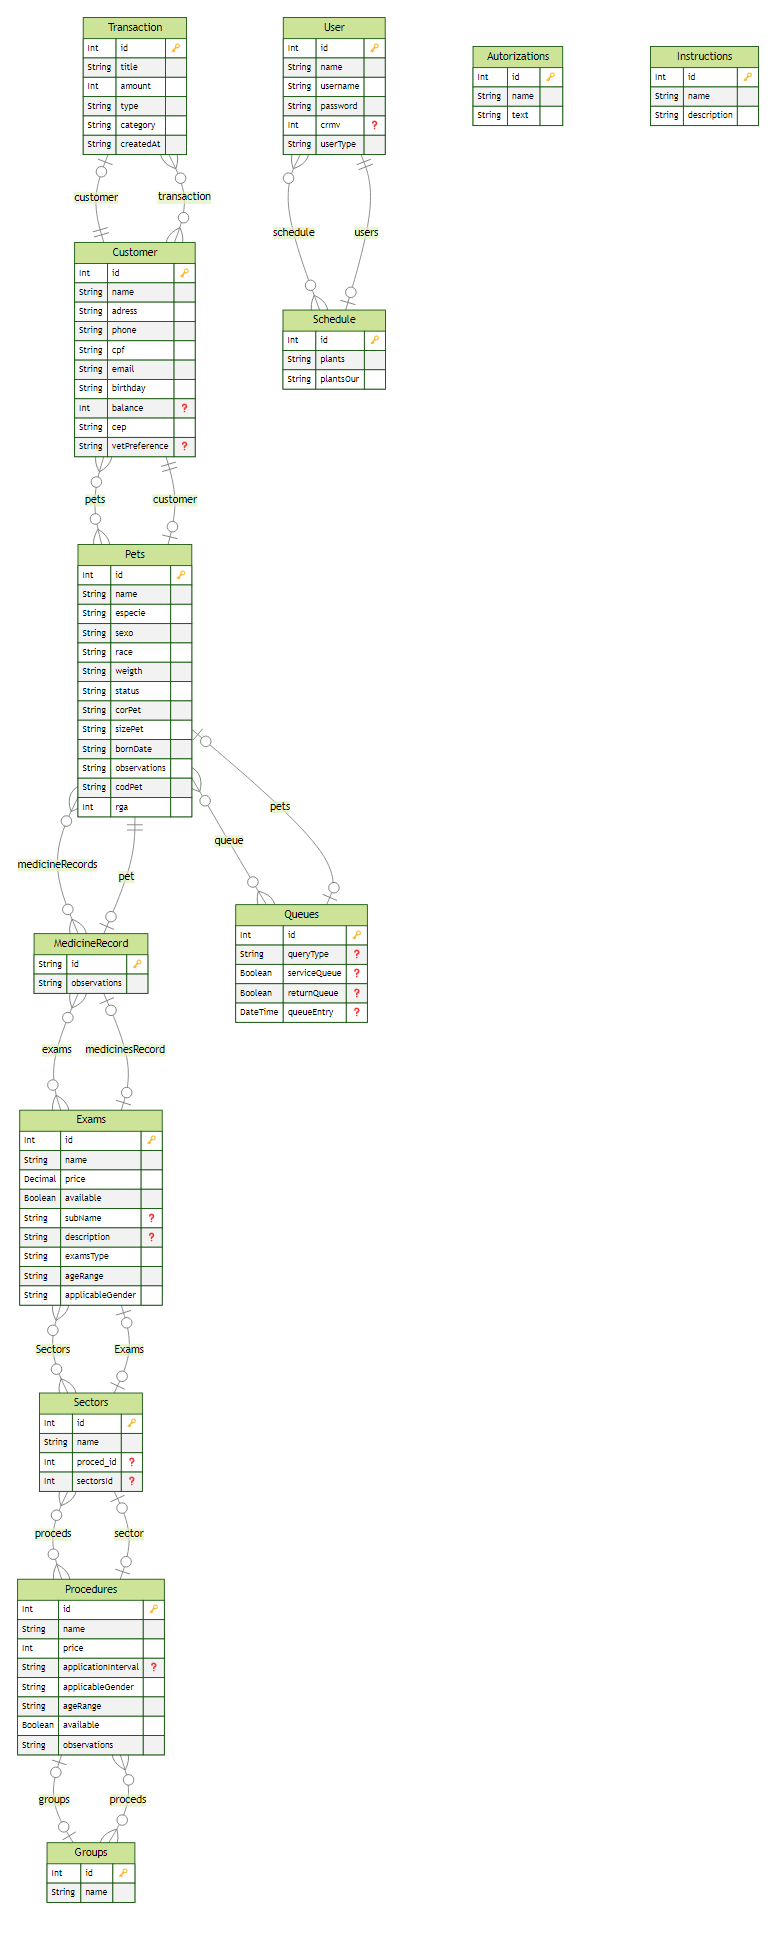
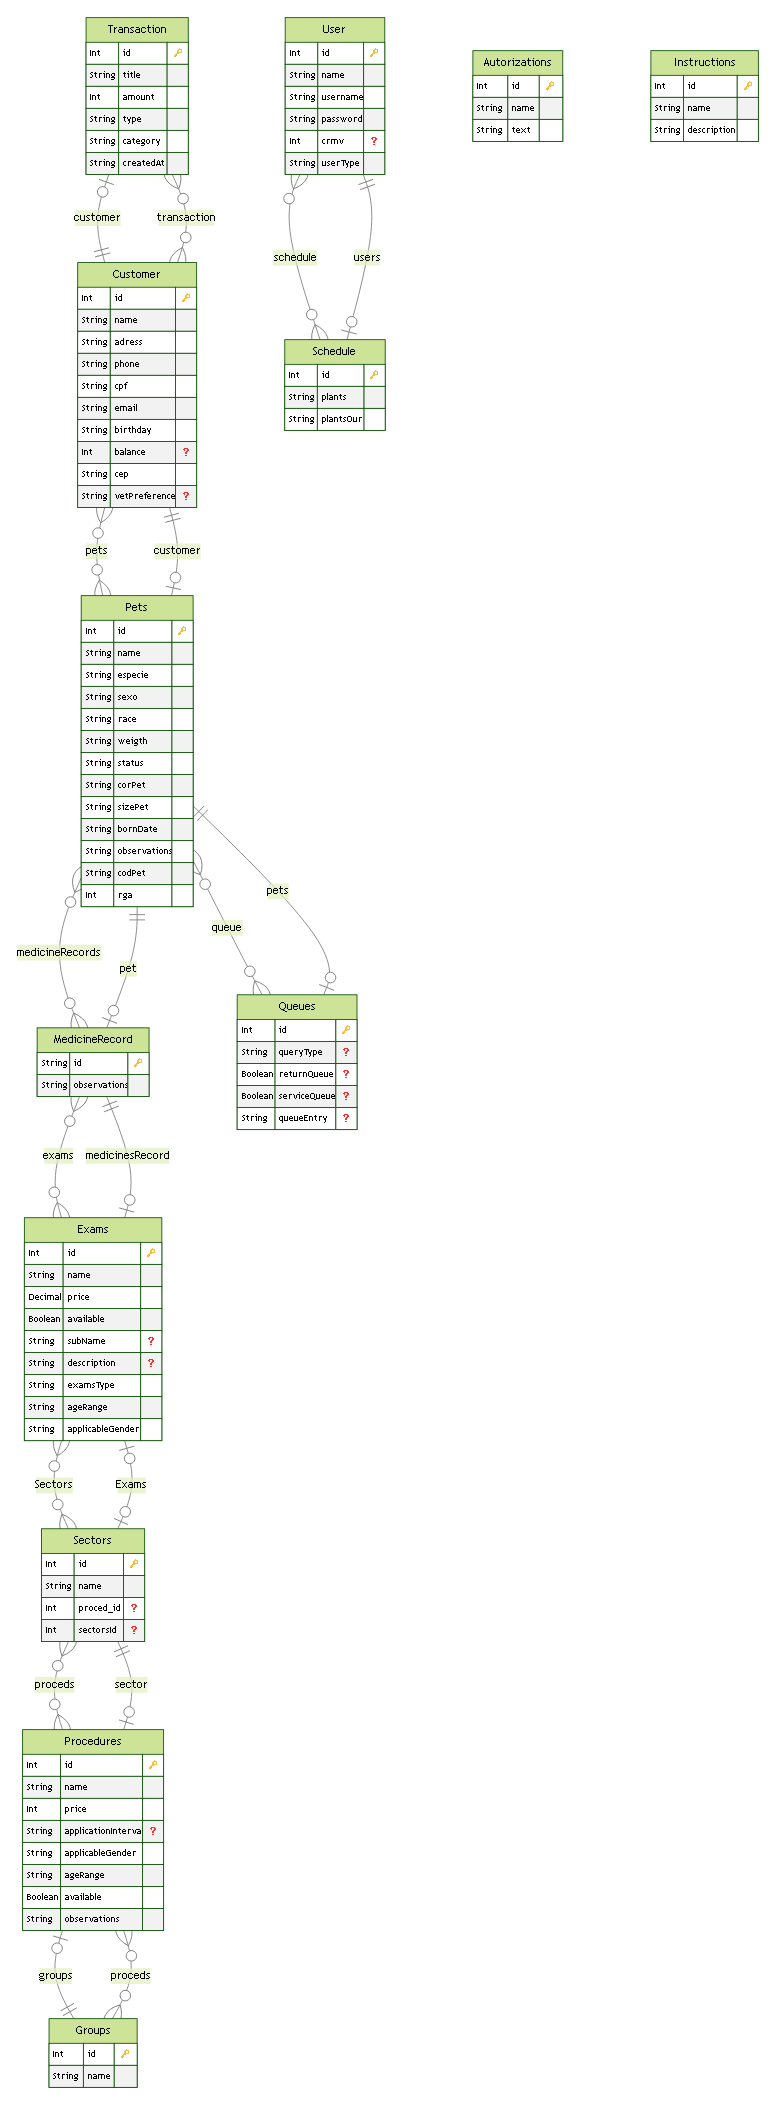
wors2305

diff --git a/app/src/pages/Vets/menu.tsx b/app/src/pages/Vets/menu.tsx
@@ -21,16 +21,25 @@ import { GenericLink } from '../../components/Sidebars/GenericLink'
 import { GenericSidebar } from '../../components/Sidebars/GenericSideBar'
 import { AiOutlineSearch } from 'react-icons/all'
 import { AdminContainer } from '../AdminDashboard/style'
-import { Link } from 'react-router-dom'
+import { Link, useNavigate } from 'react-router-dom'
 import { UniversalSearch } from '../../components/Search/universalSearch'
 import { DbContext } from '../../contexts/DbContext'
 import { StyledBox } from '../../components/Header/style'
 import { MdPets as Burger } from "react-icons/all";
+import { toast } from 'react-toastify'
+import { LoadingSpinner } from '../../components/Loading'
 
 export function MenuVet() {
   const [petValue, setPetValue] = useState("");
   let {data} = useContext(DbContext)
-  console.log("AKK DATA", data)
+  const navigate = useNavigate()
+  const handleNavigateWorkSpace = () => {
+    if(!petValue) {
+      toast.error("Selecione um PET")
+      return
+    } 
+    navigate(`/Vets/Workspace/${petValue}`)
+  }
   return (
     <ChakraProvider>
       <AdminContainer>
@@ -64,12 +73,12 @@ export function MenuVet() {
 
                     <Tbody>
                       
-                    {  Object.keys(data).length >= 1 ? data.map((user: any) => (<>
+                    {  Object.keys(data).length >= 1 ? data.map((user: any) => (
                       <Tr key={user.id}>
                           <Td>{user.cpf}</Td>
-                          <Link to="/Vets/WorkSpace">
-                          <Td>{user.name}</Td>
-                          </Link>
+                          
+                          <Td><Button colorScheme="whatsapp" onClick={() => handleNavigateWorkSpace()}>{user.name}</Button></Td>
+                          
                          
                           <Td>
                           <Menu>
@@ -82,14 +91,14 @@ export function MenuVet() {
                                 <Text>pets</Text>
                               </StyledBox>
                             </MenuButton>
-                            <MenuList key={user.pets.id} bg="green.100">
+                            <MenuList bg="green.100">
                               {user.pets?.map((pets: any) => (
                                 <Flex
-                                  key={user.pets.id}
                                   direction="column"
                                   align="center"
                                   p="2px"
                                   gap="2"
+                                  key={pets.id}
                                 >
                               <RadioGroup onChange={setPetValue} value={petValue}>
                                 <Radio
@@ -111,22 +120,9 @@ export function MenuVet() {
                           <Td>{user.vetPreference ? user.vetPreference : "Sem Preferência"}</Td>
                           <Td>0</Td>
                         </Tr>
-                    </>) ): (<>
-                      <Tr>
-                          <Td>Empty</Td>
-                          <Link to="/Vets/WorkSpace">
-                          <Td>Empty</Td>
-                          </Link>
-                         
-                          <Td>Empty</Td>
-                          <Td>Empty</Td>
-                          <Td>Empty</Td>
-                        
-                          <Td>Empty</Td>
-                          <Td>Empty</Td>
-                          <Td>Empty</Td>
-                        </Tr>
-                    </>) }
+                    ) ): (<Tr>
+                     <Td><LoadingSpinner /></Td>
+                    </Tr>) }
               
                     </Tbody>
                   </Table>

diff --git a/app/src/pages/Vets/workspace.tsx b/app/src/pages/Vets/workspace.tsx
@@ -1,9 +1,58 @@
 import { WorkSpaceContainer, WorkSpaceHeader, WorkSpaceContent, WorkSpaceFooter } from "./styles";
 import { Text, Button,ChakraProvider, Flex, Table, Thead, Tr, Td, Tbody, Textarea, HStack} from '@chakra-ui/react'
 import { AiFillMedicineBox, BiHome, MdPets, TbArrowBack, TbMedicalCrossFilled} from 'react-icons/all'
-import { useNavigate } from "react-router-dom";
+import { useNavigate, useParams } from "react-router-dom";
+import { useEffect, useState } from "react";
+import { api } from "../../lib/axios";
+import { LoadingSpinner } from "../../components/Loading";
+
+type Customer = {
+  id: number;
+  name: string;
+  balance: number;
+}
+ type queueProps = {
+  id: number | string;
+  returnQueue?: boolean,
+  serviceQueue?: boolean
+}
+export interface PetProps {
+  id: number
+  name: string;
+  especie: string;
+  corPet: string;
+  observations: string;
+  race: string;
+  rga: number;
+  sizePet: string;
+  weigth: string;
+  sexo: string;
+  status: string;
+  bornDate: string;
+  customer: Customer
+  queue: queueProps
+}
+
+
 export function WorkSpaceVet() {
+
+  const { id } = useParams<{ id: string }>();
   const navigate = useNavigate()
+  const [pet, setPet] = useState({} as PetProps)
+
+  useEffect(() => {
+    async function getPetDetails() {
+      const response = await api.get(`/pets/${id}`)
+      setPet(response.data)
+    }
+     getPetDetails()
+
+  },[])
+
+
+  console.log("DETALHES PET", pet)
+
+
   return (
     <ChakraProvider>
        <WorkSpaceContainer>
@@ -48,14 +97,20 @@ export function WorkSpaceVet() {
               </Tr>
             </Thead>
             <Tbody>
-              <Tr>
-                <Td>Felipe Augusto</Td>
-                <Td>6 meses R$00</Td>
-                <Td>Mala, felina</Td>
-                <Td>Macho 4.2kg 4 anos</Td>
-                <Td>12:45</Td>
-                <Td>Sem internação</Td>
-              </Tr>
+               {
+            !pet ? (<LoadingSpinner/>): ( <Tr>
+              <Td>{!pet.customer.name ? "error" : pet.customer.name}</Td>
+              <Td></Td>
+              <Td>{`${pet.name}, ${pet.race}`}</Td>
+              <Td>{`${pet.sexo}, ${pet.weigth}`}</Td>
+              <Td>{new Intl.DateTimeFormat("pt-BR",{
+                 hour: "2-digit",
+                 minute: "2-digit",
+                 timeZone: "America/Sao_Paulo"
+              }).format(Date.now())}</Td>
+              <Td>Sem internação</Td>
+            </Tr> )
+               }
             </Tbody>
           </Table>
           <Flex direction="column" mt="2">

diff --git a/server/src/controllers/petsController.ts b/server/src/controllers/petsController.ts
@@ -33,8 +33,8 @@ getWithId: async (request: FastifyRequest, reply: FastifyReply) => {
   try {
     const pet = await prisma.pets.findFirst({ where: { id : parseInt(id)}, 
     include: {customer: 
-      {select: { name: true, id: true}}, 
-      medicineRecords: {select: {exams: true, observations: true}},
+      {select: { name: true, id: true, balance: true}}, 
+      medicineRecords: {select: {exams: true, observations: true }},
       queue: {select: {returnQueue: true, serviceQueue: true, id: true}}
     } })
     return reply.send(pet)
@@ -108,7 +108,7 @@ createPet: async (request: FastifyRequest, reply: FastifyReply) =>{
 
 petsInQueue: async (request: FastifyRequest, reply: FastifyReply) => {
   try {
-    const pets = await prisma.pets.findMany({where: {queue: {OR: [{returnQueue: true}, {serviceQueue: true}]}}, include: {queue: {select: {returnQueue: true, serviceQueue: true, queryType: true, queueEntry: true }}, customer: {select: {name: true}}}})
+    const pets = await prisma.pets.findMany({where: {queue: {OR: [{returnQueue: true}, {serviceQueue: true}]}}, include: {queue: {select: {returnQueue: true, serviceQueue: true, queryType: true, queueEntry: true }}, customer: {select: {name: true, vetPreference: true}}}})
     return reply.send(pets)
   } catch (error) {
     reply.status(404).send(error)

diff --git a/app/src/pages/Pets/details.tsx b/app/src/pages/Pets/details.tsx
@@ -28,16 +28,17 @@ import { toast } from "react-toastify";
 import moment from 'moment';
 
 
-interface Customer {
-  id: number | string;
-  name: string
+type Customer = {
+  id: number;
+  name: string;
+  balance: number;
 }
-type queueProps = {
+ type queueProps = {
   id: number | string;
   returnQueue?: boolean,
   serviceQueue?: boolean
 }
-interface PetProps {
+export interface PetProps {
   id: number
   name: string;
   especie: string;
@@ -94,15 +95,15 @@ if(PetIsInQueue.returnQueue === true || PetIsInQueue.serviceQueue === true) {
 
 const handleSetFile: SubmitHandler<FieldValues> = async values => {
   try {
-    const formattedData = moment().toISOString()
-  
+    const formattedData = moment().utc().format()
+    const finalData = JSON.stringify(formattedData) 
+    
     const data = {
       returnQueue: values.returnQueue,
       serviceQueue: values.serviceQueue,
       queryType: values.queryType,
-      queryEntry: formattedData
+      queueEntry: finalData
     }
-    console.log(data)
 
     await api.put(`queue/${pets.queue.id}`, data)
     toast.success('Pet colocado na fila com sucesso!')

diff --git a/app/src/queue/index.tsx b/app/src/queue/index.tsx
@@ -25,7 +25,7 @@ interface QueueProps {
 ReturnQueue: boolean;
 ServiceQueue: boolean;
 queryType: string,
-queueEntry: Date;
+queueEntry:string | null;
 }
 
 type Customer = {
@@ -99,12 +99,7 @@ const [petsInQueue, setPetsInQueue] = useState<PetsInQueue[]>([])
                       <Td>{pet.customer.name}</Td>
                       <Td>{pet.name}</Td>
                       <Td>{pet.race}</Td>
-                      <Td>{pet.queue.queueEntry.toLocaleString("pt-BR", {
-                          day: "numeric",
-                          month: "numeric",
-                          hour: "numeric",
-                          minute: "numeric",
-                      })}</Td>
+                      <Td>{pet.queue.queueEntry ? pet.queue.queueEntry : "Sem data definida" }</Td>
                       <Td>{pet.codPet.substring(0, 6).concat('...')}</Td>
                       <Td>{pet.customer.vetPreference ? pet.customer.vetPreference : "Sem Preferência"}</Td>
                       <Td>FILA AZUL</Td>

diff --git a/server/src/schemas/schemasValidator.ts b/server/src/schemas/schemasValidator.ts
@@ -23,7 +23,7 @@ export const createCustomer = z.object({
   email: z.string().email(),
   birthday: z.string(),
   cep: z.string(),
-  balance: z.any().optional(),
+  balance: z.number().optional(),
   vetPreference: z.string().optional(),
  })
 
@@ -38,9 +38,8 @@ export const UserSchema = z.object({
 export const QueueSchema = z.object({
   serviceQueue: z.boolean().optional().default(false),
   returnQueue: z.boolean().optional().default(false),
-  queueEntry:  z.any().optional(),
+  queueEntry:  z.string().optional(),
   queryType: z.string().optional(),
-  vetPreference: z.string().optional(),
 })
 
 export const ExamsType = ["lab", "image"]

diff --git a/server/src/controllers/queueController.ts b/server/src/controllers/queueController.ts
@@ -10,7 +10,7 @@ type params = {
 
 export const queueController = {
     setPetInQueue: async (request: FastifyRequest<{Params: params}>, reply: FastifyReply) => {
-        const {returnQueue, serviceQueue, queueEntry, queryType, vetPreference} = QueueSchema.parse(request.body)
+        const {returnQueue, serviceQueue, queueEntry, queryType,} = QueueSchema.parse(request.body)
         const { id } = request.params
         try {
            await prisma.queues.update({where: {id: parseInt(id) }, data: {returnQueue, serviceQueue, queueEntry, queryType} })

diff --git a/app/src/Router.tsx b/app/src/Router.tsx
@@ -78,7 +78,7 @@ export function Router() {
         <Route path="/Vets" element={<VetsList />} />
         <Route path="/Vets/Menu" element={<MenuVet />} />
         <Route path="/Vets/Create" element={<CreateVet />} />
-        <Route path="/Vets/WorkSpace" element={<WorkSpaceVet />} />
+        <Route path="/Vets/WorkSpace/:id" element={<WorkSpaceVet />} />
 
         <Route path="/Labs"  element={<LabMenu />} />
         <Route path="/Labs/Exames" element={<LabExames />} />
